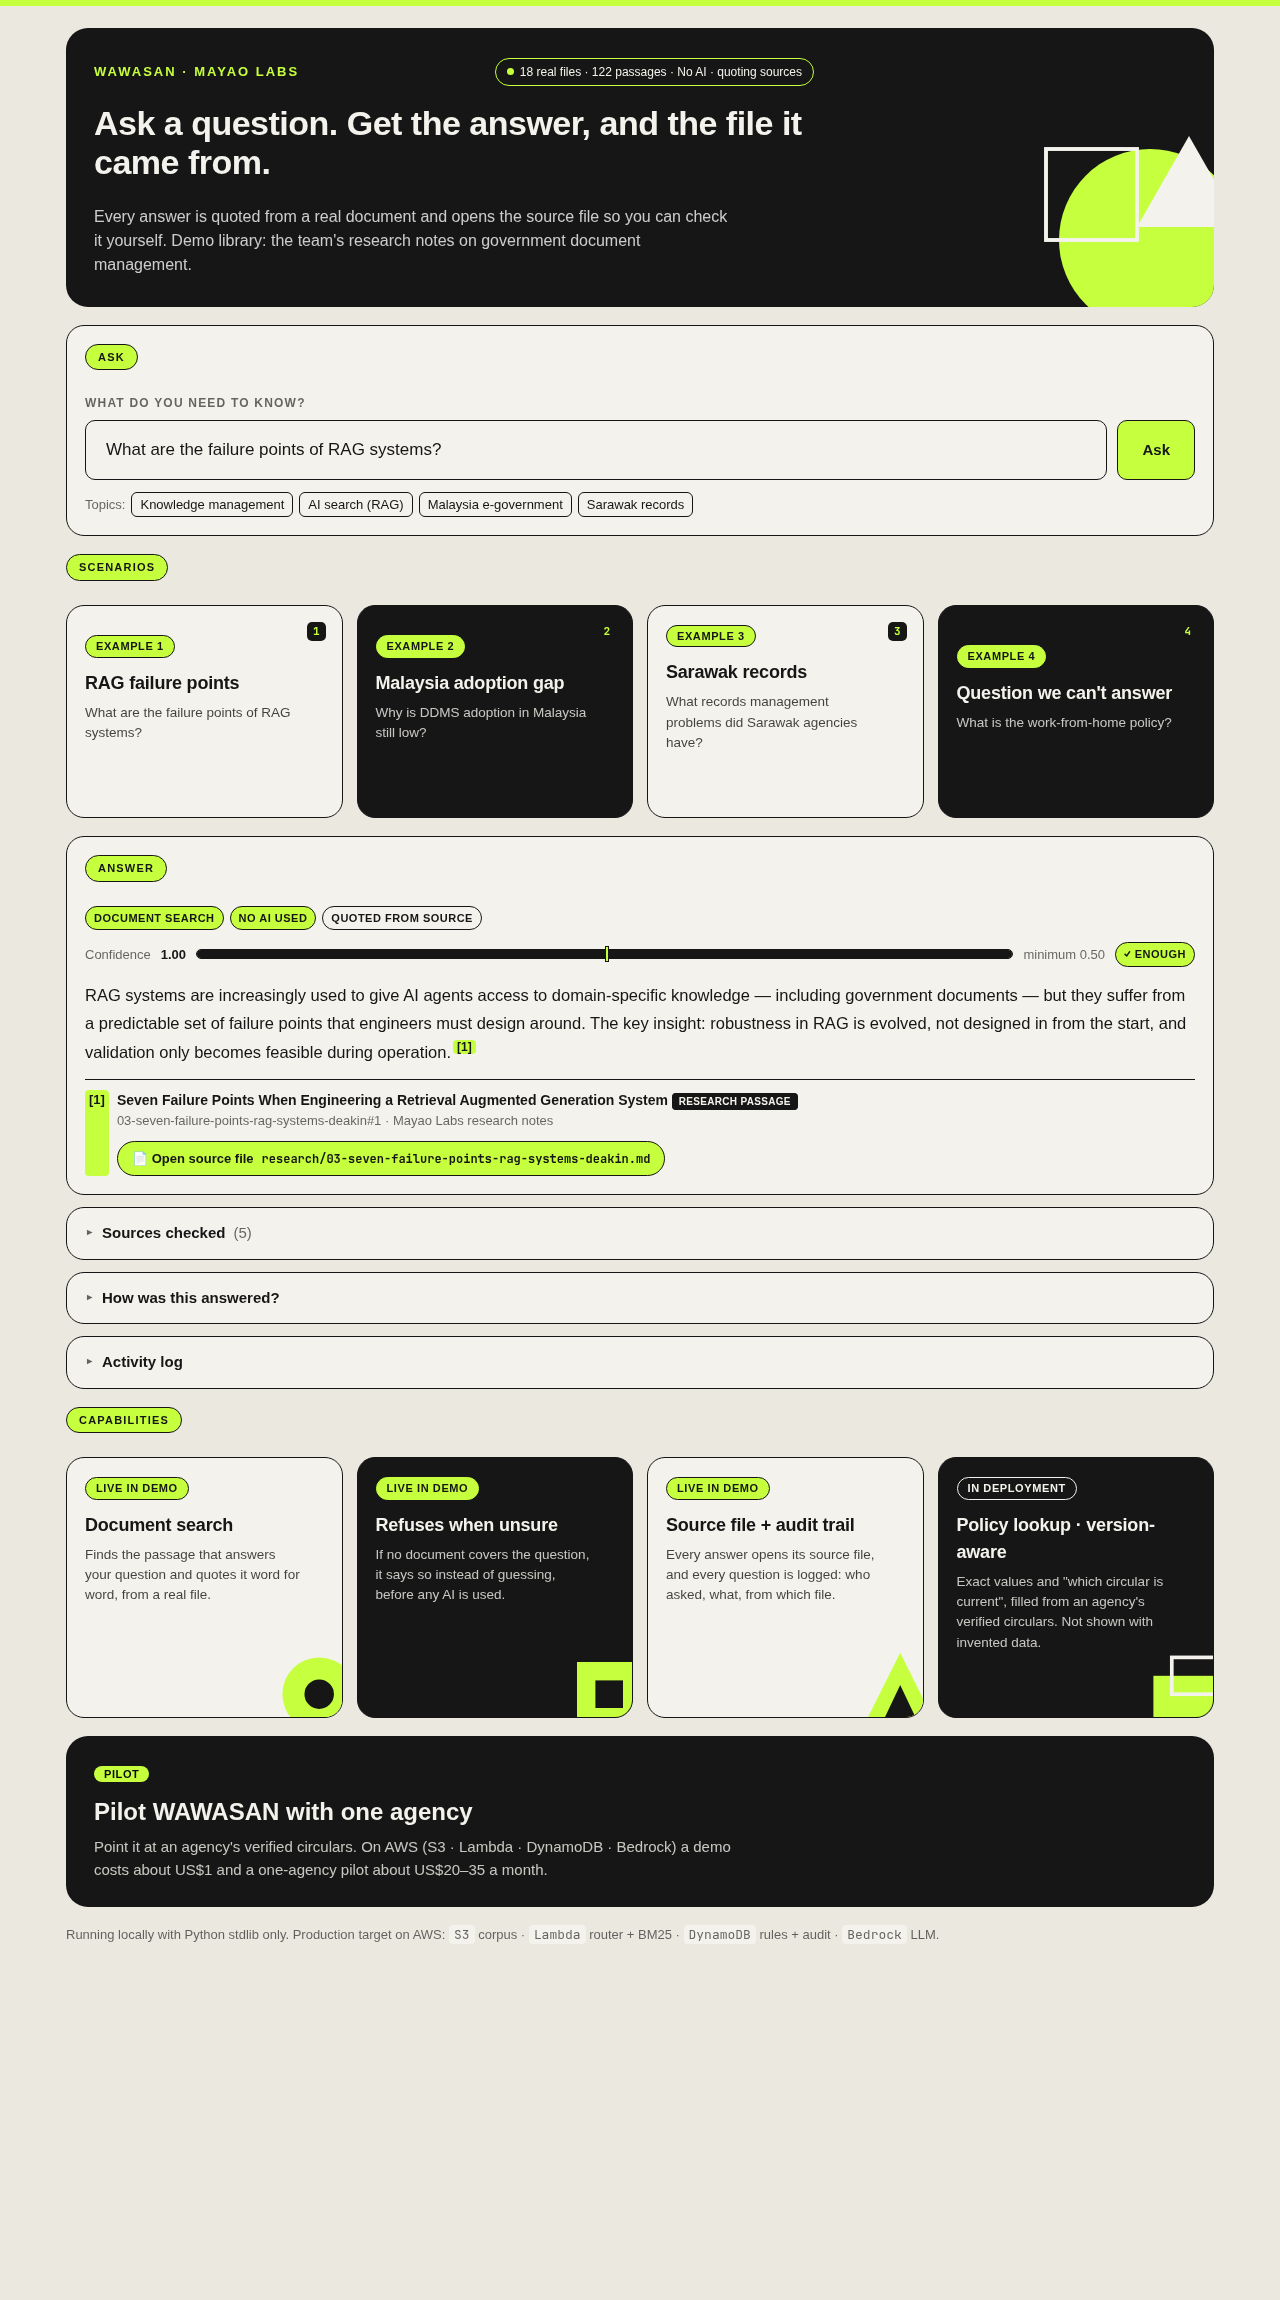
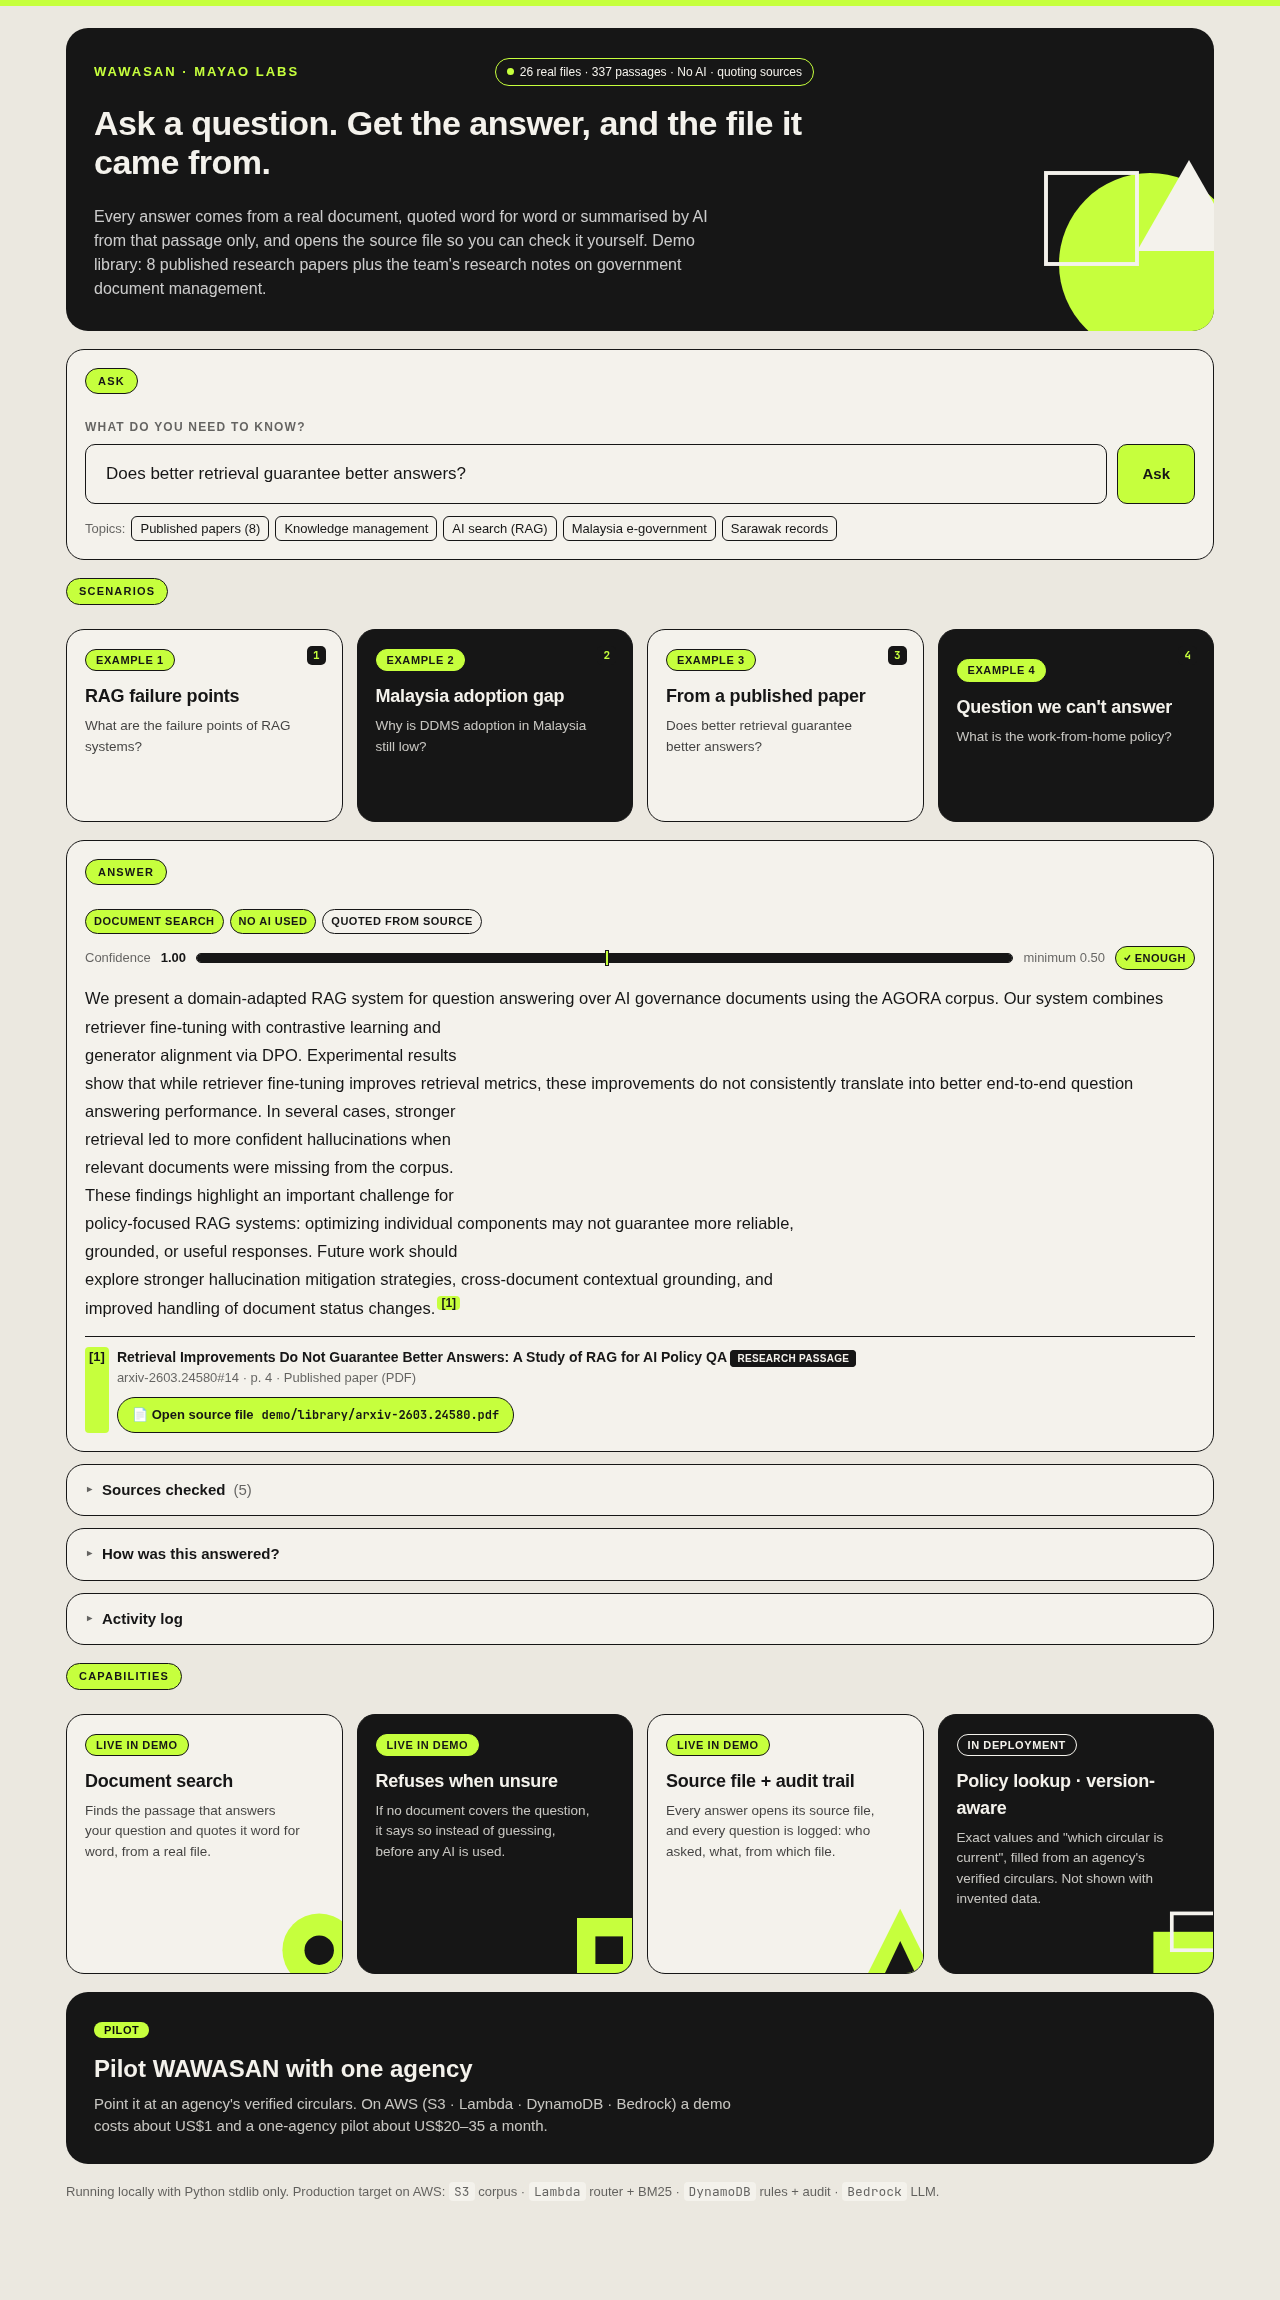
feat: search 8 published research papers with page-level citations
Add a fetch script for the open-access papers the research notes cite
(PDFs are downloaded from publishers, not committed). Use real PDF titles,
fold title blocks and caption scraps into real passages so a citation is
never just a paper's title, and allow any OpenAI-compatible endpoint via
LLM_BASE_URL.

Changed region(s): [[0.0312, 0.3704, 0.9688, 0.957], [0.0312, 0.0617, 0.9688, 0.3396], [0.6875, 0.1852, 0.9688, 0.3396]]

diff --git a/demo/index.html b/demo/index.html
@@ -296,7 +296,7 @@ button.tile:hover, button.tile:focus-visible { outline: 3px solid var(--lime); o
       </div>
       <h1 style="margin-top:18px">Ask a question. Get the answer, and the file it came from.</h1>
       <p class="tagline">Every answer comes from a real document, quoted word for word or summarised by AI from that passage only, and opens the source file so you can check it yourself.
-        Demo library: the team's research notes on government document management.</p>
+        Demo library: 8 published research papers plus the team's research notes on government document management.</p>
     </div>
     <svg class="deco" viewBox="0 0 200 200" aria-hidden="true">
       <circle cx="120" cy="110" r="70" fill="#c6ff3d"/><rect x="40" y="40" width="70" height="70" fill="none" stroke="#f4f2ec" stroke-width="3"/>
@@ -402,12 +402,12 @@ const PRESET_SETS = {
   library: [
     ["RAG failure points", "What are the failure points of RAG systems?"],
     ["Malaysia adoption gap", "Why is DDMS adoption in Malaysia still low?"],
-    ["Sarawak records", "What records management problems did Sarawak agencies have?"],
+    ["From a published paper", "Does better retrieval guarantee better answers?"],
     ["Question we can't answer", "What is the work-from-home policy?"],
   ],
 };
 const TOPICS = {
-  library: ["Knowledge management", "AI search (RAG)", "Malaysia e-government", "Sarawak records"],
+  library: ["Published papers (8)", "Knowledge management", "AI search (RAG)", "Malaysia e-government", "Sarawak records"],
 };
 const METHOD = { FACTUAL: "Policy lookup", INTERPRETIVE: "Document search" };
 const PLACEHOLDER = { library: "e.g. Why do RAG systems fail on government documents?" };
@@ -421,7 +421,7 @@ const sleep = (ms) => new Promise((r) => setTimeout(r, ms));
 const STAGES = ["query", "classify", "rule", "retrieve", "gate", "llm", "answer", "audit"];
 const LLM_NAME = { bedrock: "Bedrock", deepseek: "DeepSeek", groq: "Groq" };
 const START = {
-  library: `<p class="empty">Every answer is quoted from a real file in this project, and the file is shown so you can check it.
+  library: `<p class="empty">Searches 8 published research papers (page by page) and the team's research notes. Every answer opens its real source file so you can check it.
     Pick an example (keys <kbd>1</kbd>–<kbd>4</kbd>), or drop PDFs into <code>demo/library/</code> and restart to include them.</p>`,
 };
 

diff --git a/demo/app.py b/demo/app.py
@@ -26,6 +26,7 @@ RULES = []
 # PDFs under research/ are skipped because they are generated copies of the notes.
 LIBRARY_SOURCES = [(ROOT.parent / "research", {".md"}), (ROOT / "library", {".md", ".txt", ".pdf"})]
 CHUNK_WORDS = 180
+MIN_CHUNK_WORDS = 60
 DB_PATH = ROOT / "audit.db"
 # ponytail: lexical confidence gate. Paraphrases ("approves" vs "approval") cause false refusals,
 # which is the safer failure for policy answers; add embedding similarity once retrieval goes hybrid.
@@ -75,7 +76,19 @@ def chunk(text, limit=CHUNK_WORDS):
         words += n
     if cur:
         chunks.append("\n\n".join(cur))
-    return [c for c in chunks if len(c.split()) >= 5]
+    # A tiny passage (a paper's title/author block) carries matching words but no content, so it would win
+    # retrieval and hand the AI nothing to answer from. Fold it into the passage that follows.
+    merged = []
+    for c in chunks:
+        if merged and len(merged[-1].split()) < MIN_CHUNK_WORDS:
+            merged[-1] += "\n\n" + c
+        else:
+            merged.append(c)
+    if len(merged) > 1 and len(merged[-1].split()) < MIN_CHUNK_WORDS:  # same for a small trailing passage
+        tail = merged.pop()
+        merged[-1] += "\n\n" + tail
+    # Scraps like a lone figure caption carry the paper's title words but nothing to answer from.
+    return [c for c in merged if len(c.split()) >= 20]
 
 
 def read_pages(path):
@@ -91,6 +104,21 @@ def read_pages(path):
     return [(None, clean_markdown(text) if path.suffix.lower() == ".md" else text)]
 
 
+def pdf_title(path):
+    """Embedded title metadata if it is real, else the first title-like line of page 1."""
+    info = subprocess.run(["pdfinfo", str(path)], capture_output=True, text=True, timeout=30).stdout
+    meta = re.search(r"^Title:\s*(.+)$", info, re.M)
+    if meta and len(meta.group(1).strip()) > 12 and "paper title" not in meta.group(1).lower():
+        return meta.group(1).strip()
+    page1 = subprocess.run(["pdftotext", "-l", "1", "-enc", "UTF-8", str(path), "-"],
+                           capture_output=True, text=True, timeout=60).stdout
+    skip = re.compile(r"arxiv|volume|issue|journal|issn|https?://|doi|©|copyright", re.I)
+    for line in (l.strip() for l in page1.splitlines()):
+        if len(line.split()) >= 4 and not skip.search(line):
+            return line.rstrip(":")
+    return None
+
+
 def load_library():
     files = sorted(p for folder, exts in LIBRARY_SOURCES if folder.exists()
                    for p in folder.rglob("*") if p.is_file() and p.suffix.lower() in exts)
@@ -98,9 +126,12 @@ def load_library():
     for path in files:
         raw = path.read_text(errors="replace") if path.suffix.lower() == ".md" else ""
         heading = re.search(r"^#\s+(.+)$", raw, re.M)
-        title = heading.group(1).strip() if heading else path.stem.replace("-", " ").replace("_", " ")
+        title = (heading.group(1).strip() if heading
+                 else pdf_title(path) if path.suffix.lower() == ".pdf"
+                 else None) or path.stem.replace("-", " ").replace("_", " ")
         rel = path.relative_to(ROOT.parent).as_posix()
-        source = "Mayao Labs research notes" if rel.startswith("research/") else "Document library"
+        source = ("Mayao Labs research notes" if rel.startswith("research/")
+                  else "Published paper (PDF)" if path.suffix.lower() == ".pdf" else "Document library")
         n = 0
         for page, text in read_pages(path):
             for body in chunk(text):
@@ -155,6 +186,7 @@ def _bedrock(prompt):
 
 def _openai_compatible(provider, prompt):
     env, url, default_model = OPENAI_COMPATIBLE[provider]
+    url = os.environ.get("LLM_BASE_URL", url)  # any OpenAI-compatible endpoint, e.g. a self-hosted model
     key = os.environ[env]
     body = json.dumps({
         "model": os.environ.get("LLM_MODEL", default_model),
@@ -402,12 +434,13 @@ def selftest():
     assert all((ROOT.parent / d["file"]).is_file() for d in lib), "every citation must point at a real file"
     assert len(lib) > 50, "the library should be chunked into passages"
     assert all(len(c["body"].split()) <= CHUNK_WORDS * 3 for c in lib), "a passage is unreasonably long"
+    assert all(len(c["body"].split()) >= 20 for c in lib), "scraps (captions, title blocks) must not be passages"
 
     assert classify("What is the maximum number of failure points?")[0] == "FACTUAL"
     assert classify("Why is DDMS adoption in Malaysia still low?")[0] == "INTERPRETIVE"
 
     _, top = best_current(bm25("What are the failure points of RAG systems?", lib))
-    assert top["id"].startswith("03-seven-failure-points"), top["id"]
+    assert "seven-failure-points" in top["id"], top["id"]  # the note or the Barnett et al. paper itself
 
     q = "What is the work-from-home policy?"
     assert coverage(q, best_current(bm25(q, lib))[1], lib)[0] < THRESHOLD, "common words must not pass the gate"

diff --git a/README.md b/README.md
@@ -34,11 +34,26 @@ WAWASAN is an internal knowledge assistant for Sarawak civil servants. You ask a
 
 ## What it searches
 
-The 18 research notes in [`research/`](research/). Each one summarises a published study or report and cites it (for example Barnett et al. 2024, *Seven Failure Points When Engineering a RAG System*, arXiv). Long documents are split into ~180-word passages, so every answer points to an exact passage, not a whole paper. Any **PDF dropped into `demo/library/`** is indexed on the next restart, with page-level citations (text extracted by `pdftotext` from poppler-utils).
+**8 published research papers** (77 pages) and the **team's 18 research notes** in [`research/`](research/) that summarise and cite them:
 
-Example questions: *What are the failure points of RAG systems?* · *Why is DDMS adoption in Malaysia still low?* · *What records management problems did Sarawak agencies have?* · *What is the work-from-home policy?* (refused: no document covers it)
+| Paper | Source |
+|---|---|
+| Barnett et al. 2024, *Seven Failure Points When Engineering a Retrieval Augmented Generation System* | arXiv 2401.05856 |
+| *Retrieval-Augmented Generation for Domain-Specific Question Answering* (Pittsburgh and CMU) | arXiv 2411.13691 |
+| *Chunking, Retrieval, and Re-ranking: An Empirical Evaluation of RAG Architectures for Policy* | arXiv 2601.15457 |
+| Mathur et al. 2026, *Retrieval Improvements Do Not Guarantee Better Answers: A Study of RAG for AI Policy QA* | arXiv 2603.24580 |
+| Baldwin 2026, *Knowledge Graph Representations for LLM-Based Policy Compliance Reasoning* | arXiv 2604.27713 |
+| Pingili 2025, *AI-driven intelligent document processing in government and public administration* | WJAETS |
+| Melzer et al., *Federated Information Retrieval in Cross-Domain Information Systems* | CEUR-WS Vol. 3580 |
+| Orji et al. 2024, *A Knowledg Graph Model for e-Government* [sic] | IJISRT |
 
-**Every answer works with no AI at all.** Without an LLM, the answer is the best-matching passage quoted word for word. The self-test checks that a quoted answer appears verbatim in the cited passage. An LLM, if connected, only rewrites that passage into a summary.
+The PDFs are **downloaded from their publishers, not committed**, to respect their licences. Fetch them once with `sh demo/fetch_papers.sh`. Without them, the demo still runs on the research notes.
+
+Documents are split into passages of roughly 60–180 words, page by page for PDFs. Every answer therefore points to an exact passage and page, not a whole paper. Title blocks and figure captions are folded into real text, so a passage is never just a paper's title. Any other PDF dropped into `demo/library/` is indexed on the next restart (text extracted by `pdftotext` from poppler-utils).
+
+Example questions: *What are the failure points of RAG systems?* (answered from the Barnett et al. paper) · *Does better retrieval guarantee better answers?* (answered from the Conclusion of Mathur et al.) · *Why is DDMS adoption in Malaysia still low?* · *What is the work-from-home policy?* (refused: no document covers it)
+
+**Every answer works with no AI at all.** Without an LLM, the answer is the best-matching passage quoted word for word, and the self-test checks that it appears verbatim in the cited passage. With an LLM connected, the answer card shows the AI's summary **beside the only passage the AI was given**, so anyone can check it added nothing.
 
 ## How it works
 
@@ -68,11 +83,13 @@ Optional LLM answer generation with Amazon Bedrock, DeepSeek or Groq's free tier
 # Amazon Bedrock: needs AWS CLI credentials and model access enabled for Claude Haiku 4.5
 LLM_PROVIDER=bedrock AWS_REGION=ap-southeast-1 python3 demo/app.py
 
-# DeepSeek
+# DeepSeek (or put the key in demo/.env, copied from demo/.env.example; it is git-ignored)
 DEEPSEEK_API_KEY=your_key python3 demo/app.py
 
 # Groq free tier (no credit card)
 GROQ_API_KEY=your_key python3 demo/app.py
+
+# Any OpenAI-compatible endpoint (e.g. a self-hosted model): add LLM_BASE_URL=<url>/chat/completions
 ```
 
 See [Connecting Amazon Bedrock](#connecting-amazon-bedrock) for the full setup.
